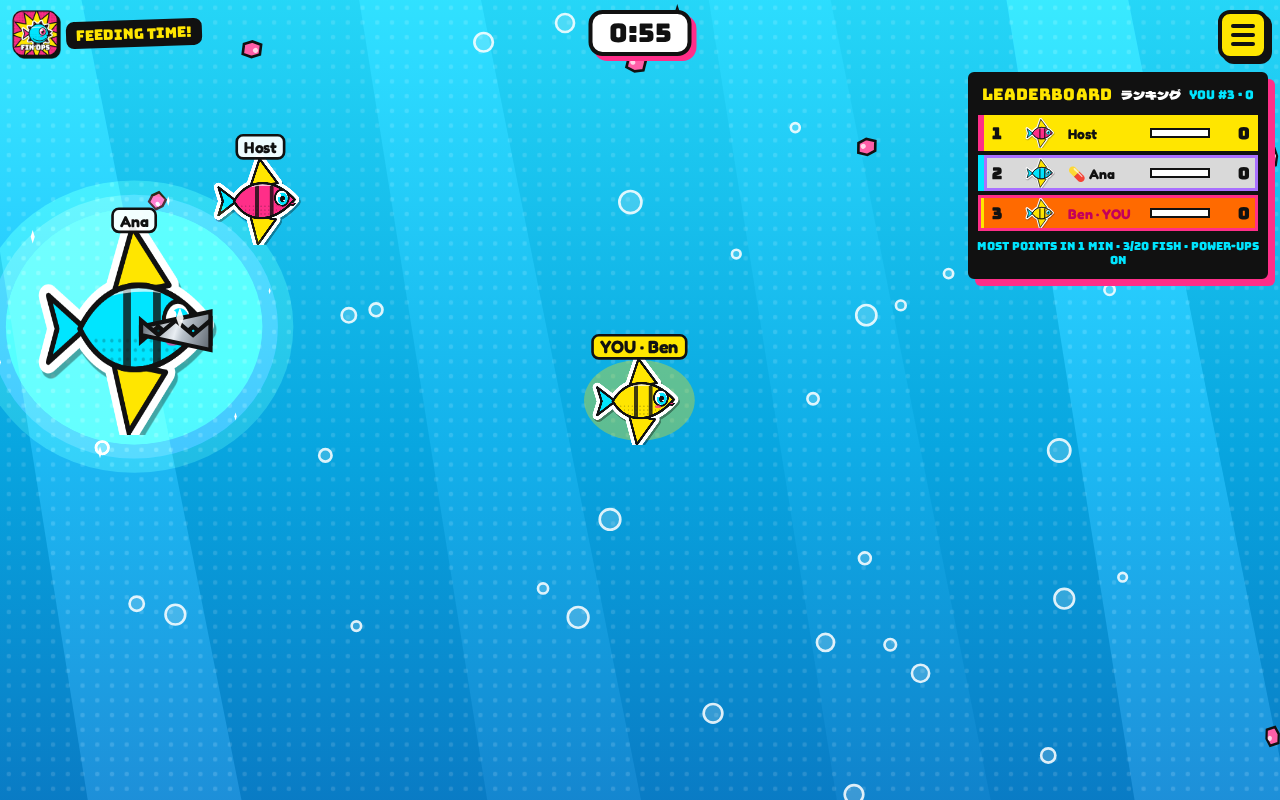
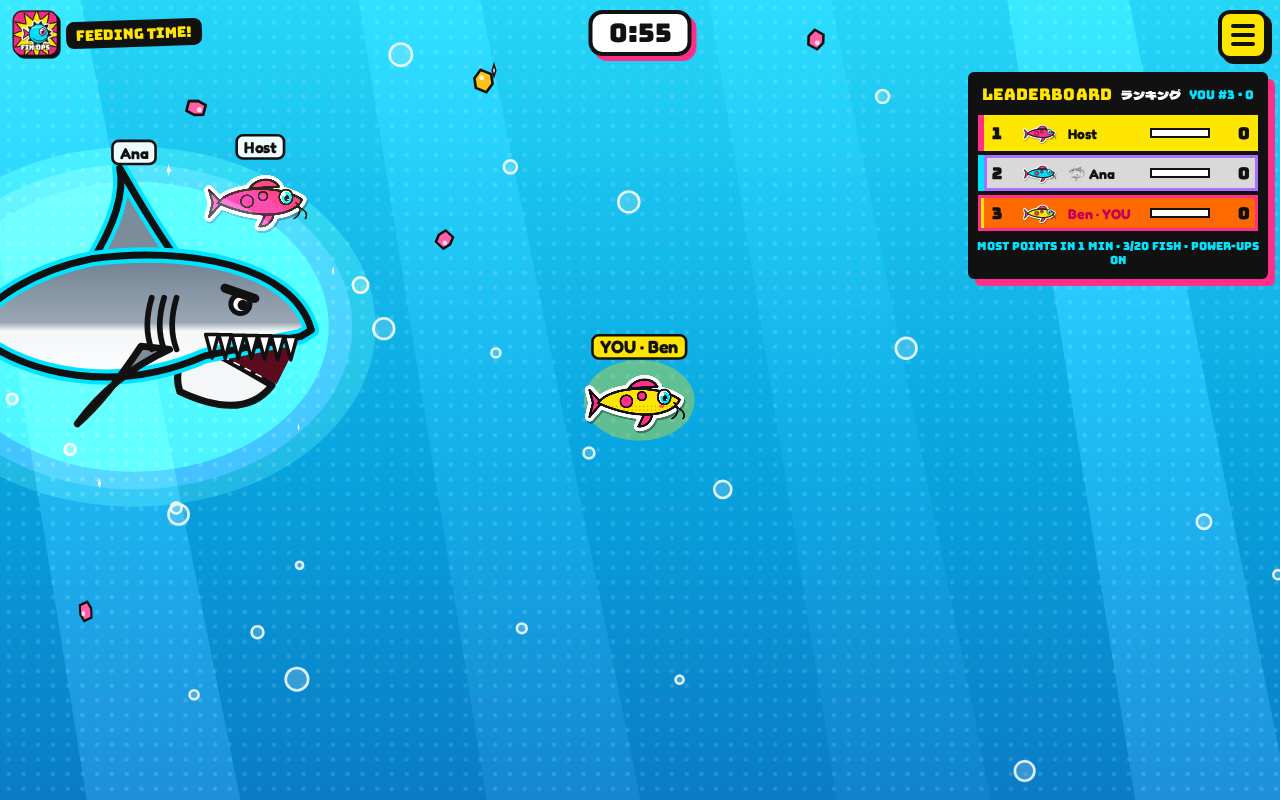
Fin Ops: magic shark pill turns you into a great white, cartoon splat replaces ghost

diff --git a/games/finops/app.js b/games/finops/app.js
@@ -103,7 +103,7 @@ const H = { // host-only state
   ev: [], tick: 0, spawnAcc: 0, metaVer: 0, result: null, timer: null, lastT: 0, pill: null, nextPill: 0,
 };
 // client view state
-const V = { meta: { pl: {}, set: { ...DEFAULTS }, ph: 'lobby', host: 0, n: 0 }, snaps: [], fish: new Map(), eats: [], fx: [], souls: [], ph: 'lobby', tl: 0, cd: 0, result: null,
+const V = { meta: { pl: {}, set: { ...DEFAULTS }, ph: 'lobby', host: 0, n: 0 }, snaps: [], fish: new Map(), eats: [], fx: [], splats: [], ph: 'lobby', tl: 0, cd: 0, result: null,
   seq: -1, lastAt: 0, gapM: 66, gapD: 8, idelay: 100, rtt: 0, pill: null };
 
 /* ---------------- host: sim ---------------- */
@@ -160,13 +160,17 @@ function timeLeft() {
 function mouthOf(p) {
   const s = speciesOf(p.sp);
   const w = FISH_LEN * p.size, h = FISH_HT * p.size * fatOf(p.size);
-  const lx = ((s.mouth[0] + 14) / 268 - 0.5) * w, ly = ((s.mouth[1] + 14) / 208 - 0.5) * h;
+  let lx = ((s.mouth[0] + 14) / 268 - 0.5) * w, ly = ((s.mouth[1] + 14) / 208 - 0.5) * h;
+  if (p.pw) ({ lx, ly } = sharkMouth(FISH_LEN * p.size, FISH_HT * p.size));
   const ca = Math.cos(p.a), sa = Math.sin(p.a);
   const rx = lx * ca - ly * sa, ry = lx * sa + ly * ca;
   return { x: p.x + rx * p.f, y: p.y + ry };
 }
 const fatOf = (size) => 1 + (size - 1) * 0.2;
 const radiusOf = (size) => 30 * size;
+const SHARK_X = 3; // great white = 3x the fish's normal size
+// shark snout: front of the body, a touch below centre (fish-local, before flip/tilt)
+const sharkMouth = (w, h) => ({ lx: 0.43 * w, ly: 0.1 * h * 0.6 });
 const eatRadius = (size) => FOOD_R + 8 + 4 * size;
 // suction: a cone in front of the mouth that captures flakes, then pulls them in over CAP_MS
 const suckRadius = (size) => eatRadius(size) * 1.9;
@@ -218,7 +222,7 @@ function spawnPill() {
     wob: rand(30, 60), wf: rand(1.2, 2.4), ph: rand(0, 6.28), dart: rand(0.4, 1.2), dvx: 0, fade: 1, t: 0 };
 }
 const pillGap = () => rand(PILL_GAP[0], PILL_GAP[1]);
-function powerUp(p) { p.pw = Date.now() + PW_MS; p.size = p.base * 2; fxAll({ k: 'pill', pid: p.id }); }
+function powerUp(p) { p.pw = Date.now() + PW_MS; p.size = p.base * SHARK_X; fxAll({ k: 'pill', pid: p.id }); }
 function powerDown(p, why) { if (!p.pw) return; p.pw = 0; p.size = p.base; fxAll({ k: 'unpw', pid: p.id, why }); }
 function spawnFood() {
   const gold = Math.random() < 0.2;
@@ -298,7 +302,7 @@ function hostTick() {
     for (const p of players) {
       if (!p.pw || p.out) continue;
       if (nowMs >= p.pw) { powerDown(p, 'time'); continue; }
-      const m = mouthOf(p), fc = faceOf(p), bx = m.x + fc.x * 6 * p.base, by = m.y + fc.y * 6 * p.base;
+      const m = mouthOf(p), fc = faceOf(p), bx = m.x + fc.x * 10 * p.base, by = m.y + fc.y * 10 * p.base;
       for (const q of players) {
         if (q === p || q.out || q.pw) continue; // a powered fish can't be eaten
         const d = Math.hypot(q.x - bx, (q.y - by) * 1.25);
@@ -313,7 +317,7 @@ function hostTick() {
     // win checks. If eating leaves only one fish swimming, the round ends early; winner = highest score
     // (eaten fish keep their locked-in score).
     const swimming = players.filter((p) => !p.out);
-    if (all.length >= 2 && swimming.length <= 1 && all.some((p) => p.out)) { if (!H.endAt) H.endAt = nowMs + 2600; if (nowMs >= H.endAt) hostEnd(); } // let the soul float away first
+    if (all.length >= 2 && swimming.length <= 1 && all.some((p) => p.out)) { if (!H.endAt) H.endAt = nowMs + 1800; if (nowMs >= H.endAt) hostEnd(); } // let the splat play out first
     else if (H.set.mode === 'timer' && timeLeft() <= 0) hostEnd();
     else if (H.set.mode === 'goal' && swimming.some((p) => p.score >= H.set.goal)) hostEnd();
   }
@@ -577,11 +581,11 @@ function showEnd() {
     const r = res[i]; if (!r) continue; const m = pl[r[0]]; if (!m) continue;
     const col = el('div', 'pod pod' + (i + 1));
     const img = el('img', 'pod-fish'); img.src = window.FinFish.urlFor(m[1], m[2]); img.alt = '';
-    col.append(img, el('div', 'pod-name', (r[2] ? '👻 ' : '') + m[0] + (+r[0] === myId ? ' (you)' : '')), el('div', 'pod-pts', r[1] + ' pts'), el('div', 'pod-block', String(i + 1)));
+    col.append(img, el('div', 'pod-name', (r[2] ? '💥 ' : '') + m[0] + (+r[0] === myId ? ' (you)' : '')), el('div', 'pod-pts', r[1] + ' pts'), el('div', 'pod-block', String(i + 1)));
     pod.append(col);
   }
   const ol = $('#finalList'); ol.textContent = '';
-  res.forEach((r, i) => { const m = pl[r[0]]; if (!m) return; const li = el('li', +r[0] === myId ? 'me' : ''); li.append(el('b', '', '#' + (i + 1)), el('span', '', (r[2] ? '👻 ' : '') + m[0] + (r[2] ? ' (eaten)' : '')), el('em', '', r[1] + ' pts')); ol.append(li); });
+  res.forEach((r, i) => { const m = pl[r[0]]; if (!m) return; const li = el('li', +r[0] === myId ? 'me' : ''); li.append(el('b', '', '#' + (i + 1)), el('span', '', (r[2] ? '💥 ' : '') + m[0] + (r[2] ? ' (chomped)' : '')), el('em', '', r[1] + ' pts')); ol.append(li); });
   const host = role === 'host';
   $('#againBtn').hidden = !host; $('#lobbyBtn').hidden = !host;
   $('#endWait').textContent = host ? '' : 'Waiting for the host to start the next round…';
@@ -635,7 +639,7 @@ function renderBoard(players) {
     r.style.transform = `translateY(${i * rowH}px)`; r.style.setProperty('--c', col);
     r.querySelector('.rk').textContent = i + 1;
     const img = r.querySelector('img'), src = window.FinFish.urlFor(m[1], m[2]); if (img.getAttribute('src') !== src) img.src = src;
-    r.querySelector('.nm').textContent = (p.out ? '👻 ' : p.pw ? '💊 ' : '') + m[0] + (p.id === myId ? ' · YOU' : '');
+    r.querySelector('.nm').textContent = (p.out ? '💥 ' : p.pw ? '🦈 ' : '') + m[0] + (p.id === myId ? ' · YOU' : '');
     r.querySelector('.bar i').style.width = Math.min(100, p.score / denom * 100) + '%';
     const pt = r.querySelector('.pt'); if (pt.textContent !== String(p.score)) { pt.textContent = p.score; pt.classList.remove('bump'); void pt.offsetWidth; pt.classList.add('bump'); }
   });
@@ -771,14 +775,14 @@ function predStep(dt) {
   const t = now(); pred.hist.push({ t, x: pred.x, y: pred.y, vx: pred.vx, vy: pred.vy });
   while (pred.hist.length && t - pred.hist[0].t > 1000) pred.hist.shift();
 }
-/* one-off effects from the host: pill swallowed, chomp + soul, power-up over */
+/* one-off effects from the host: pill swallowed, chomp + splat, power-up over */
 function onFx(d) {
   const t = now(), pl = V.meta.pl || {};
-  if (d.k === 'pill') { const fv = fishView(d.pid); fv.pwAt = t; fv.vs += 4; if (d.pid === myId) toast('MAGIC PILL! 2x size + metal jaws: eat a fish!'); else if (pl[d.pid]) toast(pl[d.pid][0] + ' got the magic pill!'); }
-  else if (d.k === 'unpw') { const fv = fishView(d.pid); fv.unAt = t; fv.vs -= 2; if (d.pid === myId && d.why === 'time') toast('Power-up wore off'); }
+  if (d.k === 'pill') { const fv = fishView(d.pid); fv.pwAt = t; fv.vs += 4; if (d.pid === myId) toast('MAGIC SHARK PILL! You\'re a great white 🦈 chomp ONE fish in 15s!'); else if (pl[d.pid]) toast(pl[d.pid][0] + ' got the magic shark pill! 🦈'); }
+  else if (d.k === 'unpw') { const fv = fishView(d.pid); fv.unAt = t; if (d.why === 'ate' && !REDUCED) { fv.holdShark = t + 650; fv.sharkSize = fv.ds; } else fv.vs -= 2; if (d.pid === myId && d.why === 'time') toast('Power-up wore off'); }
   else if (d.k === 'chomp') {
     const m = pl[d.b] || [];
-    V.souls.push({ x: d.x, y: d.y, f: d.f, s: d.s, sp: m[1], c: m[2], t, by: d.a });
+    V.splats.push(mkSplat(d.x, d.y, d.s, t));
     const fa = fishView(d.a); fa.chompAt = t; fa.snap = t;
     if (d.b === myId) { pred.ok = false; releaseAll(); }
     else if (d.a === myId) toast('CHOMP! You ate ' + (m[0] || 'a fish') + '!');
@@ -836,9 +840,10 @@ function frame() {
   // fish (smaller first so big fish sit on top), names after
   const sorted = players.slice().sort((a, b) => a.size - b.size);
   const bait = pill ? foods.concat([{ x: pill.x, y: pill.y }]) : foods;
-  for (const p of sorted) drawFish(p, bait, t, dt);
+  sharkPrey = players.filter((q) => !(q.pw > 0));
+  for (const p of sorted) { const fv = fishView(p.id); fv.wx = p.x + p.f * 0.43 * FISH_LEN * fv.ds; fv.wy = p.y; drawFish(p, bait, t, dt); }
   drawEats(players, t);
-  drawSouls(t);
+  drawSplats(t);
   for (const p of sorted) drawName(p);
   if (urgent) { ctx.setTransform(DPR, 0, 0, DPR, 0, 0); const a = 0.10 + 0.08 * Math.sin(t / 160); ctx.fillStyle = `rgba(255,46,136,${a})`; ctx.fillRect(0, 0, VW, VH); }
   // HUD text
@@ -911,6 +916,7 @@ function drawFood(foods, t) {
 function localMouth(p, ds) {
   const s = speciesOf((V.meta.pl[p.id] || [])[1]);
   const w = FISH_LEN * ds, h = FISH_HT * ds * fatOf(ds);
+  if (p.pw > 0) { const sm = sharkMouth(FISH_LEN * ds, FISH_HT * ds); return { ...sm, w, h }; }
   return { lx: ((s.mouth[0] + 14) / 268 - 0.5) * w, ly: ((s.mouth[1] + 14) / 208 - 0.5) * h, w, h };
 }
 function drawFish(p, foods, t, dt) {
@@ -918,7 +924,8 @@ function drawFish(p, foods, t, dt) {
   const fv = fishView(p.id);
   // bouncy grow spring toward real size
   if (fv.holdUntil && t >= fv.holdUntil) { fv.holdUntil = 0; fv.snap = t; fv.vs += 2.6; } // gulp, then grow
-  const target = fv.holdUntil ? Math.min(p.size, fv.holdSize) : p.size;
+  const sharkHeld = fv.holdShark && t < fv.holdShark; // stay a shark for a beat after the chomp, then morph back
+  const target = sharkHeld ? fv.sharkSize : fv.holdUntil ? Math.min(p.size, fv.holdSize) : p.size;
   fv.vs += (target - fv.ds) * 160 * dt; fv.vs *= Math.exp(-9 * dt); fv.ds += fv.vs * dt;
   if (fv.ds < 0.5) fv.ds = 0.5;
   const ds = fv.ds;
@@ -943,12 +950,19 @@ function drawFish(p, foods, t, dt) {
   const gk = since < 260 ? since / 260 : 1, gulp = gk < 1 ? Math.sin(gk * Math.PI) * Math.exp(-gk * 2) : 0;
   ctx.scale((1 + Math.sin(fv.wig) * 0.025) * (1 - 0.12 * gulp), 1 + 0.14 * gulp);
   const pw = p.pw > 0, warn = pw && p.pw < PW_WARN, blinkOff = warn && Math.floor(t / (p.pw < 1200 ? 90 : 160)) % 2 === 0;
-  if (pw && !blinkOff) drawAura(w, h, t);
-  if (p.id === myId) { ctx.fillStyle = 'rgba(255,230,0,.35)'; ctx.beginPath(); ctx.ellipse(0, 0, w * 0.48, h * 0.45, 0, 0, 7); ctx.fill(); }
-  if (spr) ctx.drawImage(spr, -w / 2, -h / 2, w, h);
-  else { ctx.fillStyle = (COLORS.find((c) => c.id === m[2]) || COLORS[0]).hex; ctx.beginPath(); ctx.ellipse(0, 0, w * 0.35, h * 0.3, 0, 0, 7); ctx.fill(); }
-  if (pw && !(warn && blinkOff)) { ctx.save(); ctx.translate(lx - 4 * ds, ly); drawJaws(ds, t, fv); ctx.restore(); }
-  if (fv.mouth > 0.04 && !pw) {
+  // shark morph 0 = fish, 1 = great white (smooth in and out; blinks back to the fish in the last 3 s)
+  const skT = (pw && !blinkOff) || sharkHeld ? 1 : 0; fv.sk = fv.sk == null ? skT : fv.sk + (skT - fv.sk) * (REDUCED ? 1 : Math.min(1, dt * (warn ? 30 : 6)));
+  const sk = fv.sk, hex = (COLORS.find((c) => c.id === m[2]) || COLORS[0]).hex;
+  if (pw && !blinkOff) drawAura(w, h * 0.7, t);
+  if (p.id === myId) { ctx.fillStyle = 'rgba(255,230,0,.35)'; ctx.beginPath(); ctx.ellipse(0, 0, w * 0.48, h * (0.45 - 0.15 * sk), 0, 0, 7); ctx.fill(); }
+  if (sk < 0.99) {
+    ctx.save(); ctx.globalAlpha = 1 - sk; const fs = 1 - 0.5 * sk; // the fish shrinks into the shark
+    if (spr) ctx.drawImage(spr, -w * fs / 2, -h * fs / 2, w * fs, h * fs);
+    else { ctx.fillStyle = hex; ctx.beginPath(); ctx.ellipse(0, 0, w * 0.35 * fs, h * 0.3 * fs, 0, 0, 7); ctx.fill(); }
+    ctx.restore();
+  }
+  if (sk > 0.01) { ctx.save(); ctx.globalAlpha = sk; const ss = 0.55 + 0.45 * sk; ctx.scale(ss, ss); drawShark(FISH_LEN * ds, FISH_HT * ds, ds, t, fv, hex); ctx.restore(); }
+  if (fv.mouth > 0.04 && sk < 0.5) {
     const o = fv.mouth, sc = ds;
     ctx.translate(lx - 3 * sc, ly);
     ctx.fillStyle = '#111'; ctx.beginPath(); ctx.ellipse(0, 0, (4 + 6 * o) * sc, (2 + 9 * o) * sc, 0, 0, 7); ctx.fill();
@@ -977,22 +991,59 @@ function drawAura(w, h, t) {
     ctx.fillStyle = '#fff'; ctx.beginPath(); ctx.moveTo(x, y - s); ctx.lineTo(x + s * 0.3, y); ctx.lineTo(x, y + s); ctx.lineTo(x - s * 0.3, y); ctx.closePath(); ctx.fill();
   }
 }
-// steel jaws at the mouth with a moving glint; they snap shut on a chomp
-function drawJaws(ds, t, fv) {
-  const since = t - (fv.chompAt || -1e9), snap = since < 260 ? 1 - since / 260 : 0;
-  const open = 0.55 + (REDUCED ? 0 : 0.25 * Math.sin(t / 160)) - 0.55 * snap;
-  const L = 26 * ds, H = 16 * ds * Math.max(0.05, open), n = 4;
-  const g = ctx.createLinearGradient(-L, -H, L * 0.4, H);
-  g.addColorStop(0, '#5d6670'); g.addColorStop(0.45, '#e9eef3'); g.addColorStop(0.55, '#b9c2cb'); g.addColorStop(1, '#4a525b');
-  for (const sgn of [-1, 1]) {
-    ctx.beginPath(); ctx.moveTo(-L, sgn * 2 * ds); ctx.lineTo(L * 0.25, sgn * (H + 3 * ds)); ctx.lineTo(L * 0.25, sgn * 2 * ds);
-    for (let i = 0; i <= n; i++) { const x = L * 0.25 - (i / n) * L * 1.25; ctx.lineTo(x, i % 2 ? sgn * 2 * ds : sgn * (2 * ds - 7 * ds)); }
-    ctx.closePath(); ctx.fillStyle = g; ctx.fill(); ctx.lineWidth = 2.5 * ds * 0.8; ctx.strokeStyle = '#111'; ctx.stroke();
-  }
-  // glint sweeping across the steel
-  const gx = REDUCED ? -L * 0.3 : -L + ((t / 700) % 1) * L * 1.4;
-  ctx.save(); ctx.globalAlpha = 0.9; ctx.fillStyle = '#fff'; const s = 5 * ds;
-  ctx.beginPath(); ctx.moveTo(gx, -H - s); ctx.lineTo(gx + s * 0.35, -H); ctx.lineTo(gx, -H + s); ctx.lineTo(gx - s * 0.35, -H); ctx.closePath(); ctx.fill(); ctx.restore();
+// cartoon great white (fish-local, facing +x). w/h = fish box at this size; outline in the player's colour.
+let sharkPrey = [];
+function drawShark(w, h, ds, t, fv, hex) {
+  const L = w, H = h * 0.6, lw = Math.max(3, 2.2 * ds);
+  const since = t - (fv.chompAt || -1e9);
+  // jaws: idle menace, gape when prey is close, SNAP shut on the chomp, then relax
+  let near = 1e9; const me = fv.wx != null ? fv : null;
+  if (me) for (const q of sharkPrey) { const d = Math.hypot(q.x - me.wx, q.y - me.wy); if (d < near && d > 1) near = d; }
+  let want = 0.22 + (REDUCED ? 0 : 0.08 * Math.sin(t / 170));
+  if (near < L * 1.1) want = 0.9;
+  if (since < 90) want = 1; else if (since < 360) want = 0;
+  fv.jaw = fv.jaw == null ? want : fv.jaw + (want - fv.jaw) * Math.min(1, (since < 360 ? 0.5 : 0.15) * 60 / 60);
+  const jo = clamp(fv.jaw, 0, 1);
+  const tw = REDUCED ? 0 : Math.sin(fv.wig * 1.3) * 0.12; // tail swish
+  ctx.lineJoin = 'round'; ctx.lineWidth = lw; ctx.strokeStyle = '#111';
+  // tail (crescent)
+  ctx.save(); ctx.translate(-0.42 * L, 0); ctx.rotate(tw);
+  ctx.beginPath(); ctx.moveTo(0, -0.08 * H); ctx.quadraticCurveTo(-0.08 * L, -0.35 * H, -0.2 * L, -0.62 * H); ctx.quadraticCurveTo(-0.12 * L, -0.15 * H, -0.12 * L, 0);
+  ctx.quadraticCurveTo(-0.12 * L, 0.15 * H, -0.17 * L, 0.45 * H); ctx.quadraticCurveTo(-0.06 * L, 0.25 * H, 0, 0.08 * H); ctx.closePath();
+  ctx.fillStyle = '#7d8c9b'; ctx.fill(); ctx.stroke(); ctx.restore();
+  // dorsal fin
+  ctx.beginPath(); ctx.moveTo(-0.12 * L, -0.4 * H); ctx.quadraticCurveTo(-0.02 * L, -0.75 * H, -0.04 * L, -0.98 * H); ctx.quadraticCurveTo(0.06 * L, -0.6 * H, 0.12 * L, -0.42 * H); ctx.closePath();
+  ctx.fillStyle = '#7d8c9b'; ctx.fill(); ctx.strokeStyle = hex; ctx.lineWidth = lw * 2.2; ctx.stroke(); ctx.strokeStyle = '#111'; ctx.lineWidth = lw; ctx.stroke();
+  // lower jaw (hinged near the eye, swings down)
+  const hx = 0.2 * L, hy = 0.12 * H;
+  ctx.save(); ctx.translate(hx, hy); ctx.rotate(jo * 0.55);
+  ctx.beginPath(); ctx.moveTo(-0.02 * L, 0); ctx.lineTo(0.22 * L, 0.02 * H); ctx.quadraticCurveTo(0.2 * L, 0.3 * H, 0.0, 0.32 * H); ctx.quadraticCurveTo(-0.06 * L, 0.2 * H, -0.02 * L, 0); ctx.closePath();
+  ctx.fillStyle = '#f4f6f8'; ctx.fill(); ctx.stroke();
+  ctx.fillStyle = '#fff'; for (let i = 0; i < 6; i++) { const x = 0.19 * L - i * 0.035 * L; ctx.beginPath(); ctx.moveTo(x, 0.02 * H); ctx.lineTo(x - 0.017 * L, -0.11 * H); ctx.lineTo(x - 0.034 * L, 0.02 * H); ctx.closePath(); ctx.fill(); ctx.lineWidth = lw * 0.5; ctx.stroke(); }
+  ctx.restore(); ctx.lineWidth = lw;
+  // mouth cavity
+  if (jo > 0.05) { ctx.fillStyle = '#5a0b1e'; ctx.beginPath(); ctx.moveTo(hx, hy); ctx.lineTo(hx + 0.23 * L * Math.cos(jo * 0.55), hy + 0.23 * L * Math.sin(jo * 0.55)); ctx.lineTo(0.47 * L, 0.06 * H); ctx.closePath(); ctx.fill(); }
+  // body: grey top, white belly
+  ctx.beginPath(); ctx.moveTo(0.5 * L, 0.02 * H);
+  ctx.bezierCurveTo(0.45 * L, -0.38 * H, 0.15 * L, -0.5 * H, -0.12 * L, -0.42 * H); ctx.bezierCurveTo(-0.3 * L, -0.34 * H, -0.4 * L, -0.15 * H, -0.44 * L, -0.06 * H);
+  ctx.lineTo(-0.44 * L, 0.06 * H); ctx.bezierCurveTo(-0.3 * L, 0.3 * H, -0.05 * L, 0.42 * H, hx, hy + 0.06 * H); ctx.lineTo(0.47 * L, 0.06 * H); ctx.closePath();
+  const g = ctx.createLinearGradient(0, -0.45 * H, 0, 0.4 * H); g.addColorStop(0, '#6f7f8f'); g.addColorStop(0.5, '#9aa8b5'); g.addColorStop(0.56, '#f4f6f8'); g.addColorStop(1, '#ffffff');
+  ctx.fillStyle = g; ctx.fill(); ctx.strokeStyle = hex; ctx.lineWidth = lw * 2.2; ctx.stroke(); ctx.strokeStyle = '#111'; ctx.lineWidth = lw; ctx.stroke();
+  // upper teeth
+  ctx.fillStyle = '#fff'; for (let i = 0; i < 7; i++) { const x = 0.46 * L - i * 0.037 * L, y = 0.06 * H - (0.46 * L - x) * 0.18 * H / L * 0.3 + (jo > 0.05 ? 0 : 0);
+    ctx.beginPath(); ctx.moveTo(x, y); ctx.lineTo(x - 0.018 * L, y + (0.1 + 0.05 * jo) * H); ctx.lineTo(x - 0.036 * L, y); ctx.closePath(); ctx.fill(); ctx.lineWidth = lw * 0.5; ctx.stroke(); }
+  ctx.lineWidth = lw;
+  // pectoral fin
+  ctx.beginPath(); ctx.moveTo(0.02 * L, 0.12 * H); ctx.quadraticCurveTo(-0.08 * L, 0.45 * H, -0.16 * L, 0.6 * H); ctx.quadraticCurveTo(-0.06 * L, 0.3 * H, 0.1 * L, 0.14 * H); ctx.closePath();
+  ctx.fillStyle = '#7d8c9b'; ctx.fill(); ctx.stroke();
+  // gills
+  ctx.lineWidth = lw * 0.8; for (let i = 0; i < 3; i++) { const x = 0.12 * L - i * 0.035 * L; ctx.beginPath(); ctx.moveTo(x, -0.18 * H); ctx.quadraticCurveTo(x - 0.025 * L, 0, x, 0.14 * H); ctx.stroke(); }
+  // mean eye + angry brow
+  const ex = 0.3 * L, ey = -0.14 * H, er = Math.max(4, 0.045 * L * 0.6);
+  ctx.fillStyle = '#fff'; ctx.beginPath(); ctx.arc(ex, ey, er, 0, 7); ctx.fill(); ctx.lineWidth = lw * 0.7; ctx.stroke();
+  ctx.fillStyle = '#111'; ctx.beginPath(); ctx.arc(ex + er * 0.25, ey + er * 0.1, er * 0.55, 0, 7); ctx.fill();
+  ctx.lineWidth = lw * 1.3; ctx.beginPath(); ctx.moveTo(ex - er * 1.6, ey - er * 1.7); ctx.lineTo(ex + er * 1.5, ey - er * 0.6); ctx.stroke();
+  ctx.lineWidth = lw;
 }
 // glowing capsule pill
 function drawPill(x, y, t, alpha, scale) {
@@ -1011,34 +1062,43 @@ function drawPill(x, y, t, alpha, scale) {
     const cx = x + Math.cos(a) * rr, cy = y + Math.sin(a) * rr; ctx.fillStyle = '#FFE600'; ctx.strokeStyle = '#111'; ctx.lineWidth = 1.5;
     ctx.beginPath(); ctx.moveTo(cx, cy - s); ctx.lineTo(cx + s * 0.3, cy); ctx.lineTo(cx, cy + s); ctx.lineTo(cx - s * 0.3, cy); ctx.closePath(); ctx.fill(); ctx.stroke(); }
 }
-// chomp: the eaten fish squashes into the jaws, then a translucent ghost floats up, wobbles and fades
-const SOUL_MS = 2600;
-function drawSouls(t) {
-  V.souls = V.souls.filter((s) => t - s.t < SOUL_MS);
-  for (const s of V.souls) {
-    const age = t - s.t, w = FISH_LEN * s.s, h = FISH_HT * s.s * fatOf(s.s), spr = s.sp && window.FinFish.sprite(s.sp, s.c);
-    if (age < 320) { // squash + crunch lines
-      const k = age / 320; ctx.save(); ctx.translate(s.x, s.y); ctx.scale(s.f * (1 - 0.7 * k), 1 - 0.5 * k); ctx.globalAlpha = 1 - k * 0.6;
-      if (spr) ctx.drawImage(spr, -w / 2, -h / 2, w, h); ctx.restore();
-      ctx.save(); ctx.strokeStyle = '#fff'; ctx.lineWidth = 4; for (let i = 0; i < 8; i++) { const a = i * Math.PI / 4, r = 20 + k * 50;
-        ctx.beginPath(); ctx.moveTo(s.x + Math.cos(a) * r, s.y + Math.sin(a) * r); ctx.lineTo(s.x + Math.cos(a) * (r + 14), s.y + Math.sin(a) * (r + 14)); ctx.stroke(); }
-      ctx.font = '700 30px Bungee, sans-serif'; ctx.textAlign = 'center'; ctx.lineWidth = 6; ctx.strokeStyle = '#111'; ctx.fillStyle = '#FFE600';
-      ctx.strokeText('CHOMP!', s.x, s.y - 50 - k * 20); ctx.fillText('CHOMP!', s.x, s.y - 50 - k * 20); ctx.restore();
-      continue;
-    }
-    const k = (age - 320) / (SOUL_MS - 320), rise = REDUCED ? 0 : k * 170, wob = REDUCED ? 0 : Math.sin(k * 14) * 18 * (1 - k * 0.5);
-    const a = (k < 0.15 ? k / 0.15 : 1) * (1 - k) * 0.75;
-    ctx.save(); ctx.translate(s.x + wob, s.y - rise); ctx.globalAlpha = a;
-    // ghost body
-    const gw = Math.max(36, w * 0.5), gh = gw * 1.15;
-    ctx.fillStyle = 'rgba(235,245,255,.95)'; ctx.strokeStyle = 'rgba(17,17,17,.6)'; ctx.lineWidth = 3;
-    ctx.beginPath(); ctx.moveTo(-gw / 2, gh * 0.25); ctx.arc(0, -gh * 0.1, gw / 2, Math.PI, 0);
-    ctx.lineTo(gw / 2, gh * 0.45); for (let i = 0; i < 4; i++) { const x0 = gw / 2 - (i + 0.5) * gw / 4; ctx.quadraticCurveTo(x0, gh * (i % 2 ? 0.6 : 0.3) + (REDUCED ? 0 : Math.sin(t / 120 + i) * 3), x0 - gw / 8, gh * 0.45); }
-    ctx.closePath(); ctx.fill(); ctx.stroke();
-    ctx.fillStyle = '#111'; ctx.beginPath(); ctx.ellipse(-gw * 0.16, -gh * 0.12, gw * 0.07, gw * 0.1, 0, 0, 7); ctx.ellipse(gw * 0.16, -gh * 0.12, gw * 0.07, gw * 0.1, 0, 0, 7); ctx.fill();
-    ctx.beginPath(); ctx.ellipse(0, gh * 0.08, gw * 0.08, gw * 0.06, 0, 0, 7); ctx.fill();
-    if (spr) { ctx.globalAlpha = a * 0.35; ctx.scale(s.f, 1); ctx.drawImage(spr, -gw * 0.45, gh * 0.05, gw * 0.9, gw * 0.7); }
+// chomp: cartoon red splat bursting out + a few bubbles + "CHOMP!", gone within ~1.5 s
+const SPLAT_MS = 1500;
+function mkSplat(x, y, size, t) {
+  const n = 12, drops = [], bub = [];
+  for (let i = 0; i < n; i++) { const a = (i / n) * Math.PI * 2 + rand(-0.25, 0.25); drops.push({ a, d: rand(50, 110) * Math.max(0.8, size), r: rand(5, 13) * Math.max(0.8, size) }); }
+  for (let i = 0; i < 5; i++) bub.push({ dx: rand(-40, 40), r: rand(4, 9), sp: rand(60, 120), ph: rand(0, 6) });
+  const bumps = []; for (let i = 0; i < 9; i++) bumps.push(rand(0.75, 1.25));
+  return { x, y, s: Math.max(0.8, size), t, drops, bub, bumps };
+}
+function splatBlob(r, bumps) {
+  ctx.beginPath(); const n = bumps.length;
+  for (let i = 0; i <= n; i++) { const a = (i / n) * Math.PI * 2, rr = r * bumps[i % n], a0 = ((i - 0.5) / n) * Math.PI * 2, rc = r * 1.35 * bumps[(i + 4) % n];
+    if (!i) ctx.moveTo(Math.cos(a) * rr, Math.sin(a) * rr); else ctx.quadraticCurveTo(Math.cos(a0) * rc, Math.sin(a0) * rc, Math.cos(a) * rr, Math.sin(a) * rr); }
+  ctx.closePath();
+}
+function drawSplats(t) {
+  V.splats = V.splats.filter((s) => t - s.t < SPLAT_MS);
+  for (const s of V.splats) {
+    const k = (t - s.t) / SPLAT_MS, fade = k < 0.55 ? 1 : 1 - (k - 0.55) / 0.45;
+    const pop = REDUCED ? 1 : Math.min(1, k * 7) * (1 + 0.25 * Math.exp(-k * 10) * Math.sin(k * 40));
+    ctx.save(); ctx.translate(s.x, s.y); ctx.globalAlpha = fade; ctx.lineWidth = 3; ctx.strokeStyle = '#111';
+    // main splat
+    ctx.save(); ctx.scale(pop, pop); splatBlob(34 * s.s, s.bumps); ctx.fillStyle = '#E8143C'; ctx.fill(); ctx.stroke();
+    ctx.fillStyle = 'rgba(255,255,255,.55)'; ctx.beginPath(); ctx.ellipse(-10 * s.s, -12 * s.s, 9 * s.s, 5 * s.s, -0.5, 0, 7); ctx.fill(); ctx.restore();
+    // droplets fly out (ease-out) and sag a little
+    const e = REDUCED ? 0.7 : 1 - Math.pow(1 - Math.min(1, k * 1.8), 3);
+    for (const d of s.drops) { const x = Math.cos(d.a) * d.d * e, y = Math.sin(d.a) * d.d * e + (REDUCED ? 0 : 40 * k * k), r = d.r * (REDUCED ? 1 : 1 - 0.4 * k);
+      ctx.fillStyle = '#FF2B4F'; ctx.beginPath(); ctx.arc(x, y, r, 0, 7); ctx.fill(); ctx.lineWidth = 2; ctx.stroke();
+      ctx.fillStyle = 'rgba(255,255,255,.6)'; ctx.beginPath(); ctx.arc(x - r * 0.35, y - r * 0.35, r * 0.28, 0, 7); ctx.fill(); }
+    // bubbles
+    if (!REDUCED) for (const b of s.bub) { const y = -b.sp * k * 1.4, x = b.dx + Math.sin(t / 150 + b.ph) * 5;
+      ctx.strokeStyle = 'rgba(255,255,255,.9)'; ctx.lineWidth = 2; ctx.beginPath(); ctx.arc(x, y, b.r, 0, 7); ctx.stroke(); }
     ctx.restore();
+    if (k < 0.45) { const tk = k / 0.45, sc = REDUCED ? 1 : 0.6 + 0.6 * Math.min(1, tk * 4);
+      ctx.save(); ctx.translate(s.x, s.y - 70 * s.s - (REDUCED ? 0 : tk * 16)); ctx.scale(sc, sc); ctx.globalAlpha = 1 - Math.max(0, tk - 0.7) / 0.3;
+      ctx.font = '700 34px Bungee, sans-serif'; ctx.textAlign = 'center'; ctx.lineWidth = 7; ctx.strokeStyle = '#111'; ctx.fillStyle = '#FFE600';
+      ctx.strokeText('CHOMP!', 0, 0); ctx.fillText('CHOMP!', 0, 0); ctx.restore(); }
   }
 }
 function drawEats(players, t) {

diff --git a/games/finops/index.html b/games/finops/index.html
@@ -80,7 +80,7 @@
 </div>
 
 <div id="countdown" hidden><div id="cdText"></div></div>
-<div id="eatenBanner" hidden role="status" aria-live="polite"><b>You got eaten!</b><span>Your score is locked in</span><small>Spectating until the next round 👻</small></div>
+<div id="eatenBanner" hidden role="status" aria-live="polite"><b>You got eaten!</b><span>Your score is locked in</span><small>Chomped by a shark! Spectating until the next round 🦈</small></div>
 
 <section id="endScreen" hidden>
   <div class="card end-card">
